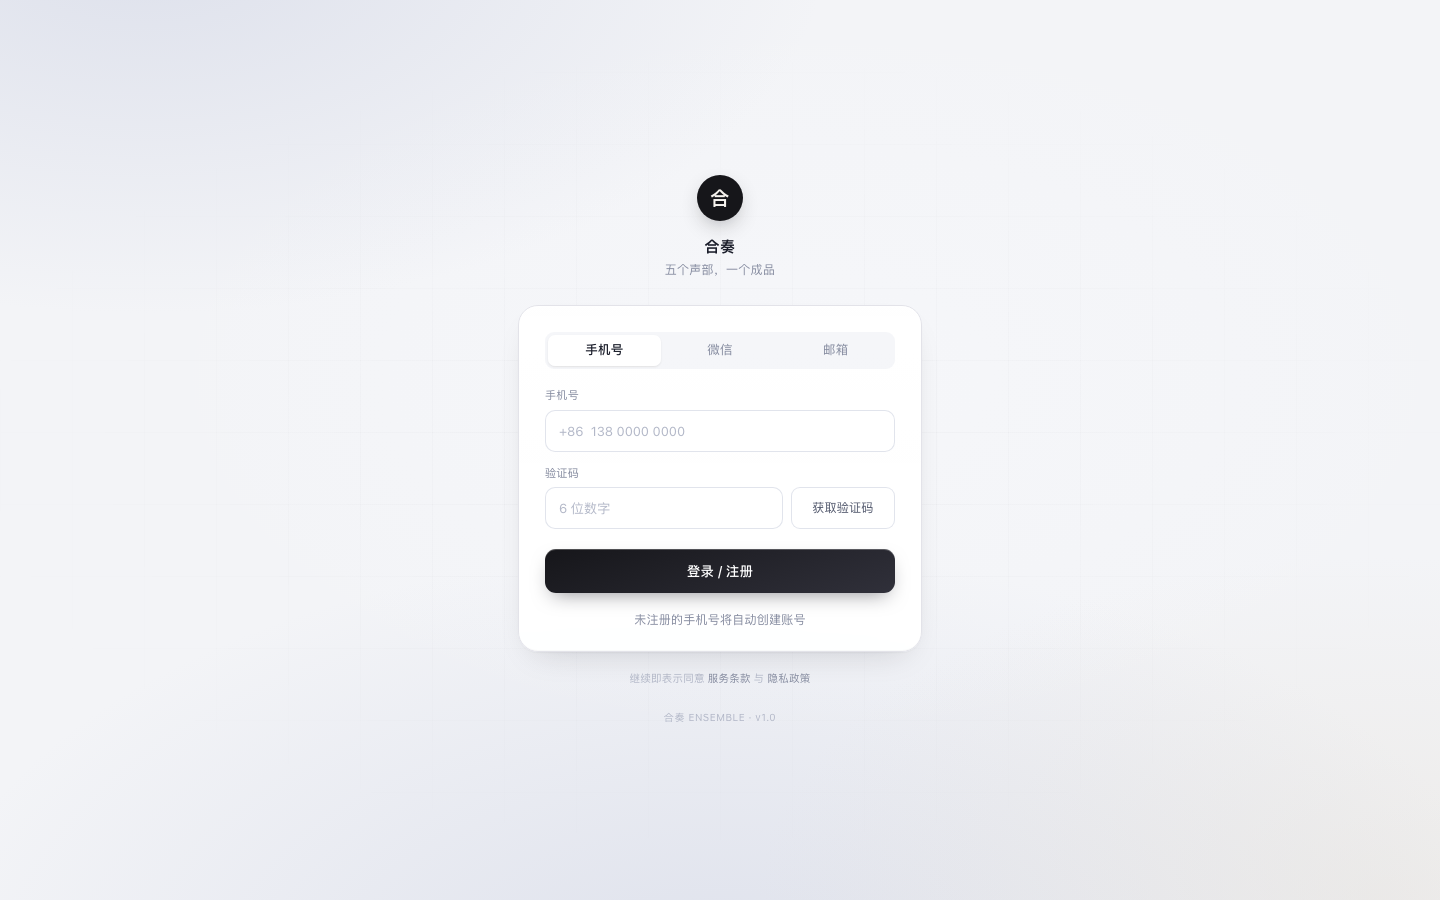
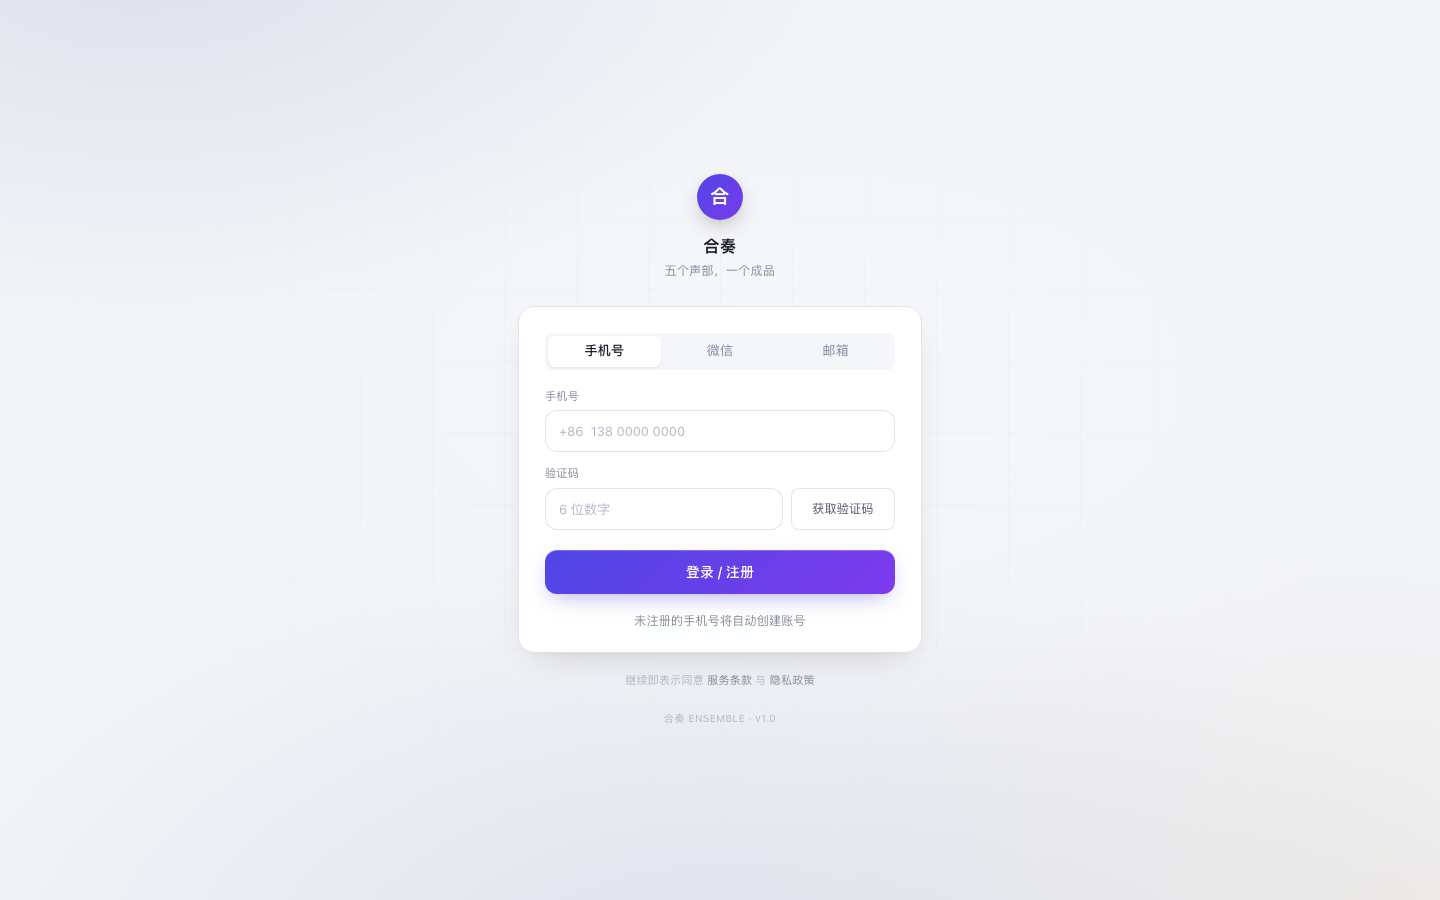
加活力：一个主色 + 三个语义色 + 五个角色色
- 主色靛蓝→紫渐变：主按钮、进度、选中态、群图标
- 语义色：绿=运行中、琥珀=等待、红=风险
- 五个 Agent 各有低饱和底色，可辨但不花
- 手机端同步新配色，修复风险卡丢失

diff --git a/studio.html b/studio.html
@@ -41,7 +41,7 @@
 .links a.on::after{
   content:""; position:absolute; left:0; right:0; bottom:-20px;
   height:2px; border-radius:2px;
-  background:linear-gradient(90deg,var(--brand),var(--brand-2));
+  background:var(--grad);
 }
 
 .nav-r{ margin-left:auto; display:flex; align-items:center; gap:10px; position:relative; }
@@ -96,9 +96,9 @@
   transition:all .18s;
 }
 .btn-dark{
-  background:linear-gradient(160deg,var(--brand),var(--brand-2));
-  color:var(--ink-on-brand);
-  box-shadow:0 6px 18px -6px rgba(80,110,240,.55), inset 0 1px 0 rgba(255,255,255,.4);
+  background:var(--grad);
+  color:#fff;
+  box-shadow:0 6px 18px -6px rgba(79,70,229,.55), inset 0 1px 0 rgba(255,255,255,.28);
 }
 .btn-dark:hover{ transform:translateY(-1px); box-shadow:0 10px 24px -8px rgba(80,110,240,.6); }
 .btn-line{
@@ -138,7 +138,7 @@
 .g.g-main::after{
   content:""; position:absolute; left:0; top:14px; bottom:14px;
   width:3px; border-radius:0 3px 3px 0;
-  background:linear-gradient(180deg,#16161A,#3A3A44);
+  background:var(--grad);
 }
 .g:hover{
   transform:translateY(-3px);
@@ -154,8 +154,8 @@
   width:6px; height:6px; border-radius:99px; flex:0 0 6px;
   background:var(--line-3);
 }
-.g-dot.live{ background:var(--accent); box-shadow:0 0 0 3px rgba(109,92,240,.15); }
-.g-dot.done{ background:var(--green); }
+.g-dot.live{ background:var(--success); box-shadow:0 0 0 3px rgba(5,150,105,.14); }
+.g-dot.done{ background:var(--tx-4); }
 .g-n{ font-size:14px; font-weight:600; letter-spacing:-.01em; }
 .g-more{
   margin-left:auto; width:26px; height:26px; border-radius:8px;
@@ -181,8 +181,8 @@
   display:flex; flex-direction:column; gap:5px; align-items:flex-end;
 }
 .g-state{ font-size:10px; font-weight:500; }
-.g-state.live{ color:var(--accent); }
-.g-state.done{ color:var(--green); }
+.g-state.live{ color:var(--success); }
+.g-state.done{ color:var(--tx-3); }
 
 /* 新建卡 */
 .g.new{
@@ -223,7 +223,7 @@
 }
 .quota-bar i{
   display:block; height:100%; border-radius:99px;
-  background:linear-gradient(90deg,var(--brand),var(--brand-2));
+  background:var(--grad);
 }
 
 .side-sec{
@@ -449,8 +449,8 @@
 .d-foot .save{
   flex:1; height:40px; border-radius:12px;
   background:linear-gradient(160deg,var(--brand),var(--brand-2));
-  color:var(--ink-on-brand); font-size:13px; font-weight:500;
-  box-shadow:0 6px 18px -6px rgba(80,110,240,.5), inset 0 1px 0 rgba(255,255,255,.4);
+  color:#fff; font-size:13px; font-weight:500;
+  box-shadow:0 6px 18px -6px rgba(79,70,229,.5), inset 0 1px 0 rgba(255,255,255,.24);
 }
 .d-foot .cancel{
   flex:0 0 86px; height:40px; border-radius:12px;
@@ -576,11 +576,11 @@
             </div>
             <div class="g-sub">竞标工作室 · 5 Agent · 2 外部</div>
             <div class="g-stack">
-              <div class="avatar">工</div>
-              <div class="avatar">查</div>
-              <div class="avatar">写</div>
-              <div class="avatar">审</div>
-              <div class="avatar">交</div>
+              <div class="avatar av-con">工</div>
+              <div class="avatar av-sco">查</div>
+              <div class="avatar av-scr">写</div>
+              <div class="avatar av-aud">审</div>
+              <div class="avatar av-cou">交</div>
             </div>
           </div>
           <div class="g-foot">
@@ -627,8 +627,8 @@
             <div class="g-stack">
               <div class="avatar">检</div>
               <div class="avatar">算</div>
-              <div class="avatar">写</div>
-              <div class="avatar">审</div>
+              <div class="avatar av-scr">写</div>
+              <div class="avatar av-aud">审</div>
             </div>
           </div>
           <div class="g-foot">
@@ -653,17 +653,17 @@
       <div class="acts">
         <div class="acts-h">最近活动</div>
         <div class="act">
-          <div class="avatar">审</div>
+          <div class="avatar av-aud">审</div>
           <span>审校在「标书攻坚组」发现 3 处废标风险</span>
           <span class="t">14:19</span>
         </div>
         <div class="act">
-          <div class="avatar">交</div>
+          <div class="avatar av-cou">交</div>
           <span>交付完成「华东医院_投标包_终版.zip」</span>
           <span class="t">14:31</span>
         </div>
         <div class="act">
-          <div class="avatar">写</div>
+          <div class="avatar av-scr">写</div>
           <span>撰写在「云枢重构」提交架构方案 v2</span>
           <span class="t">12:08</span>
         </div>
@@ -673,7 +673,7 @@
           <span class="t">昨天</span>
         </div>
         <div class="act">
-          <div class="avatar">工</div>
+          <div class="avatar av-con">工</div>
           <span>「宁德尽调」全部任务完成，等待验收</span>
           <span class="t">昨天</span>
         </div>
@@ -785,11 +785,11 @@
 
     <div class="d-group">
       <div class="d-label">成员 · 5 Agent</div>
-      <div class="mem"><div class="avatar">工</div><div><div class="mem-n">工头 Conductor</div><div class="mem-r">拆解 · 调度</div></div><button class="mem-x">移除</button></div>
-      <div class="mem"><div class="avatar">查</div><div><div class="mem-n">查证 Scout</div><div class="mem-r">检索 · 抽取</div></div><button class="mem-x">移除</button></div>
-      <div class="mem"><div class="avatar">写</div><div><div class="mem-n">撰写 Scribe</div><div class="mem-r">生成 · 应答</div></div><button class="mem-x">移除</button></div>
-      <div class="mem"><div class="avatar">审</div><div><div class="mem-n">审校 Auditor</div><div class="mem-r">只挑错</div></div><button class="mem-x">移除</button></div>
-      <div class="mem"><div class="avatar">交</div><div><div class="mem-n">交付 Courier</div><div class="mem-r">组包 · 推送</div></div><button class="mem-x">移除</button></div>
+      <div class="mem"><div class="avatar av-con">工</div><div><div class="mem-n">工头 Conductor</div><div class="mem-r">拆解 · 调度</div></div><button class="mem-x">移除</button></div>
+      <div class="mem"><div class="avatar av-sco">查</div><div><div class="mem-n">查证 Scout</div><div class="mem-r">检索 · 抽取</div></div><button class="mem-x">移除</button></div>
+      <div class="mem"><div class="avatar av-scr">写</div><div><div class="mem-n">撰写 Scribe</div><div class="mem-r">生成 · 应答</div></div><button class="mem-x">移除</button></div>
+      <div class="mem"><div class="avatar av-aud">审</div><div><div class="mem-n">审校 Auditor</div><div class="mem-r">只挑错</div></div><button class="mem-x">移除</button></div>
+      <div class="mem"><div class="avatar av-cou">交</div><div><div class="mem-n">交付 Courier</div><div class="mem-r">组包 · 推送</div></div><button class="mem-x">移除</button></div>
     </div>
 
     <div class="d-group">

diff --git a/chat.html b/chat.html
@@ -63,7 +63,7 @@ body{ height:100vh; overflow:hidden; background:var(--bg); }
   font-size:11px; color:var(--tx-3); margin-top:1px;
   display:flex; align-items:center; gap:6px;
 }
-.g-s .d{ width:5px; height:5px; border-radius:99px; background:var(--accent); }
+.g-s .d{ width:5px; height:5px; border-radius:99px; background:var(--success); box-shadow:0 0 0 3px rgba(5,150,105,.14); }
 
 .bar-r{ margin-left:auto; display:flex; align-items:center; gap:6px; }
 .tool{
@@ -183,8 +183,8 @@ body{ height:100vh; overflow:hidden; background:var(--bg); }
   color:var(--tx-2); background:transparent;
 }
 .act-r .no:hover{ border-color:var(--line-3); color:var(--tx); }
-.act-r .yes{ flex:1; background:var(--brand); color:#F6F3EE; }
-.act-r .yes:hover{ background:#000; }
+.act-r .yes{ flex:1; background:var(--grad); color:#fff; }
+.act-r .yes:hover{ filter:brightness(1.08); }
 .act.done{ border-color:var(--green-line); background:var(--green-soft); }
 .act.done .act-t{ color:var(--green); }
 
@@ -223,11 +223,11 @@ body{ height:100vh; overflow:hidden; background:var(--bg); }
 .ta::placeholder{ color:var(--tx-4); }
 .send{
   width:32px; height:32px; flex:0 0 32px; border-radius:8px;
-  background:var(--brand); color:#F6F3EE;
+  background:var(--grad); color:#fff;
   display:grid; place-items:center;
   transition:background .15s;
 }
-.send:hover{ background:#000; }
+.send:hover{ filter:brightness(1.08); }
 
 /* ================= 产物抽屉 ================= */
 .panel{
@@ -335,7 +335,7 @@ td.n{ font-family:var(--mono); font-size:10px; color:var(--tx-4); }
       <div class="sys">13:48 · 任务已创建 · 招标文件 186 页</div>
 
       <div class="m">
-        <div class="avatar">工</div>
+        <div class="avatar av-con">工</div>
         <div class="m-b">
           <div class="m-h"><span class="m-n">工头</span><span class="m-t">13:49</span></div>
           <div class="m-x">拆成四步：查证 → 撰写 → 审校 → 交付。预计 <b>45 分钟</b>，到点我会汇报。</div>
@@ -343,7 +343,7 @@ td.n{ font-family:var(--mono); font-size:10px; color:var(--tx-4); }
       </div>
 
       <div class="m">
-        <div class="avatar">查</div>
+        <div class="avatar av-sco">查</div>
         <div class="m-b">
           <div class="m-h"><span class="m-n">查证</span><span class="m-t">13:56</span></div>
           <div class="m-x">186 页扫完了。抽出 <b>47 条</b>可核验要求，其中 <b>12 条是硬性资质</b>。每条都带原文页码。</div>
@@ -359,7 +359,7 @@ td.n{ font-family:var(--mono); font-size:10px; color:var(--tx-4); }
       </div>
 
       <div class="m">
-        <div class="avatar">写</div>
+        <div class="avatar av-scr">写</div>
         <div class="m-b">
           <div class="m-h"><span class="m-n">撰写</span><span class="m-t">14:07</span></div>
           <div class="m-x">初稿 32 页，覆盖 38 条要求。每条陈述都挂到了条目编号上。</div>
@@ -375,7 +375,7 @@ td.n{ font-family:var(--mono); font-size:10px; color:var(--tx-4); }
       </div>
 
       <div class="m">
-        <div class="avatar">审</div>
+        <div class="avatar av-aud">审</div>
         <div class="m-b">
           <div class="m-h"><span class="m-n">审校</span><span class="m-t">14:19</span></div>
           <div class="m-x">逐条对完了。<b>3 处会废标</b>，不是措辞问题，是硬伤。</div>
@@ -401,7 +401,7 @@ td.n{ font-family:var(--mono); font-size:10px; color:var(--tx-4); }
       </div>
 
       <div class="m">
-        <div class="avatar">审</div>
+        <div class="avatar av-aud">审</div>
         <div class="m-b">
           <div class="m-h"><span class="m-n">审校</span><span class="m-t">14:26</span></div>
           <div class="m-x">已修 2 条，剩 1 条待补适配清单。风险 <b>3 → 1</b>。</div>
@@ -409,7 +409,7 @@ td.n{ font-family:var(--mono); font-size:10px; color:var(--tx-4); }
       </div>
 
       <div class="m">
-        <div class="avatar">交</div>
+        <div class="avatar av-cou">交</div>
         <div class="m-b">
           <div class="m-h"><span class="m-n">交付</span><span class="m-t">14:31</span></div>
           <div class="m-x">投标包组好了，4 个文件。等你确认才外发。</div>

diff --git a/mobile.html b/mobile.html
@@ -6,7 +6,6 @@
 <link rel="stylesheet" href="tokens.css">
 <style>
 body{
-  background:#F2F2F2;
   padding:40px 28px;
   display:flex; gap:24px; justify-content:center; align-items:flex-start;
   min-height:100vh;
@@ -97,19 +96,19 @@ body{
 
 /* 风险 */
 .risk{
-  margin-top:8px; border:1px solid var(--bad-line); border-radius:7px;
-  background:var(--bad-dim); overflow:hidden;
+  margin-top:8px; border:1px solid rgba(220,38,38,.20); border-radius:9px;
+  background:rgba(220,38,38,.055); overflow:hidden;
 }
 .risk-h{
-  padding:6px 9px; font-size:10px; font-weight:600; color:var(--bad);
-  border-bottom:1px solid var(--bad-line);
+  padding:7px 10px; font-size:10.5px; font-weight:600; color:var(--danger);
+  border-bottom:1px solid rgba(220,38,38,.14);
 }
 .risk-i{
   display:flex; gap:6px; padding:6px 9px;
   font-size:10px; color:var(--tx-2);
 }
 .risk-i + .risk-i{ border-top:1px solid rgba(217,59,59,.09); }
-.risk-i .k{ font-size:9px; color:var(--bad); font-weight:600; flex:0 0 auto; }
+.risk-i .k{ font-size:9px; color:var(--danger); font-weight:600; flex:0 0 auto; }
 
 /* 行动 */
 .act{
@@ -121,7 +120,7 @@ body{
 .act .row{ display:flex; gap:6px; margin-top:9px; }
 .act button{ flex:1; height:30px; border-radius:7px; font-size:10.5px; font-weight:500; }
 .b2{ border:1px solid var(--line-2); color:var(--tx-2); background:#fff; }
-.b1{ background:var(--brand); color:#fff; }
+.b1{ background:var(--grad); color:#fff; }
 
 /* 输入 */
 .cm{
@@ -135,7 +134,7 @@ body{
   font-size:11px; color:var(--tx-4);
 }
 .ib .sd{
-  width:24px; height:24px; border-radius:6px; background:var(--brand);
+  width:24px; height:24px; border-radius:6px; background:var(--grad);
   display:grid; place-items:center; color:#fff; flex:0 0 24px;
 }
 .home{
@@ -204,7 +203,7 @@ body{
 }
 .ap-f button{ height:42px; border-radius:10px; font-size:12px; font-weight:500; }
 .ap-f .no{ flex:0 0 84px; border:1px solid var(--line-2); color:var(--tx-2); background:#fff; }
-.ap-f .yes{ flex:1; background:var(--brand); color:#fff; }
+.ap-f .yes{ flex:1; background:var(--grad); color:#fff; }
 
 /* 产物 */
 .ph{ padding:13px 14px 10px; }

diff --git a/tokens.css b/tokens.css
@@ -150,6 +150,27 @@
   --line-2: rgba(120,130,170,.22);
   --line-3: rgba(120,130,170,.34);
 
+  /* ---- 活力：一个主色 + 三个语义色 ---- */
+  --primary:      #4F46E5;
+  --primary-2:    #7C3AED;
+  --primary-soft: rgba(79,70,229,.08);
+  --primary-line: rgba(79,70,229,.24);
+  --grad:         linear-gradient(135deg,#4F46E5 0%,#7C3AED 100%);
+
+  --success:      #059669;
+  --success-soft: rgba(5,150,105,.09);
+  --warning:      #D97706;
+  --warning-soft: rgba(217,119,6,.11);
+  --danger:       #DC2626;
+  --danger-soft:  rgba(220,38,38,.08);
+
+  /* ---- 五个角色（低饱和底 + 深字） ---- */
+  --r-con:        #B45309; --r-con-bg:  rgba(180,83,9,.11);
+  --r-sco:        #0369A1; --r-sco-bg:  rgba(3,105,161,.11);
+  --r-scr:        #6D28D9; --r-scr-bg:  rgba(109,40,217,.11);
+  --r-aud:        #B91C1C; --r-aud-bg:  rgba(185,28,28,.11);
+  --r-cou:        #047857; --r-cou-bg:  rgba(4,120,87,.11);
+
   --rose:   #C8443C;
   --rose-soft: rgba(200,68,60,.08);
   --rose-line: rgba(200,68,60,.20);
@@ -265,7 +286,13 @@ a{ color:inherit; text-decoration:none; }
   letter-spacing:0;
 }
 .avatar.sm{ width:22px; height:22px; font-size:10px; }
-.avatar.me{ background:linear-gradient(160deg,var(--brand),var(--brand-2)); color:var(--ink-on-brand); border-color:transparent; }
+.avatar.me{ background:linear-gradient(160deg,var(--primary),var(--primary-2)); color:#fff; border-color:transparent; }
+
+.av-con{ background:var(--r-con-bg); color:var(--r-con); border-color:transparent; }
+.av-sco{ background:var(--r-sco-bg); color:var(--r-sco); border-color:transparent; }
+.av-scr{ background:var(--r-scr-bg); color:var(--r-scr); border-color:transparent; }
+.av-aud{ background:var(--r-aud-bg); color:var(--r-aud); border-color:transparent; }
+.av-cou{ background:var(--r-cou-bg); color:var(--r-cou); border-color:transparent; }
 
 @media (prefers-reduced-motion: reduce){
   *{ animation-duration:.001s !important; transition-duration:.001s !important; }

diff --git a/login.html b/login.html
@@ -30,7 +30,7 @@ body::before{
 .brand{ text-align:center; margin-bottom:26px; }
 .brand-m{
   width:46px; height:46px; border-radius:50%;
-  background:var(--brand); color:#F6F3EE;
+  background:var(--grad); color:#fff;
   display:grid; place-items:center; margin:0 auto;
   font-size:19px; font-weight:600;
   box-shadow:0 8px 22px -8px rgba(28,28,30,.45);
@@ -101,8 +101,8 @@ body::before{
 .submit{
   width:100%; height:44px; margin-top:20px;
   border-radius:12px;
-  background:linear-gradient(160deg,var(--brand),var(--brand-2)); color:var(--ink-on-brand);
-  box-shadow:0 8px 20px -8px rgba(20,20,30,.5), inset 0 1px 0 rgba(255,255,255,.24);
+  background:var(--grad); color:#fff;
+  box-shadow:0 8px 22px -8px rgba(79,70,229,.5), inset 0 1px 0 rgba(255,255,255,.24);
   font-size:14px; font-weight:500;
   transition:all .16s;
 }
